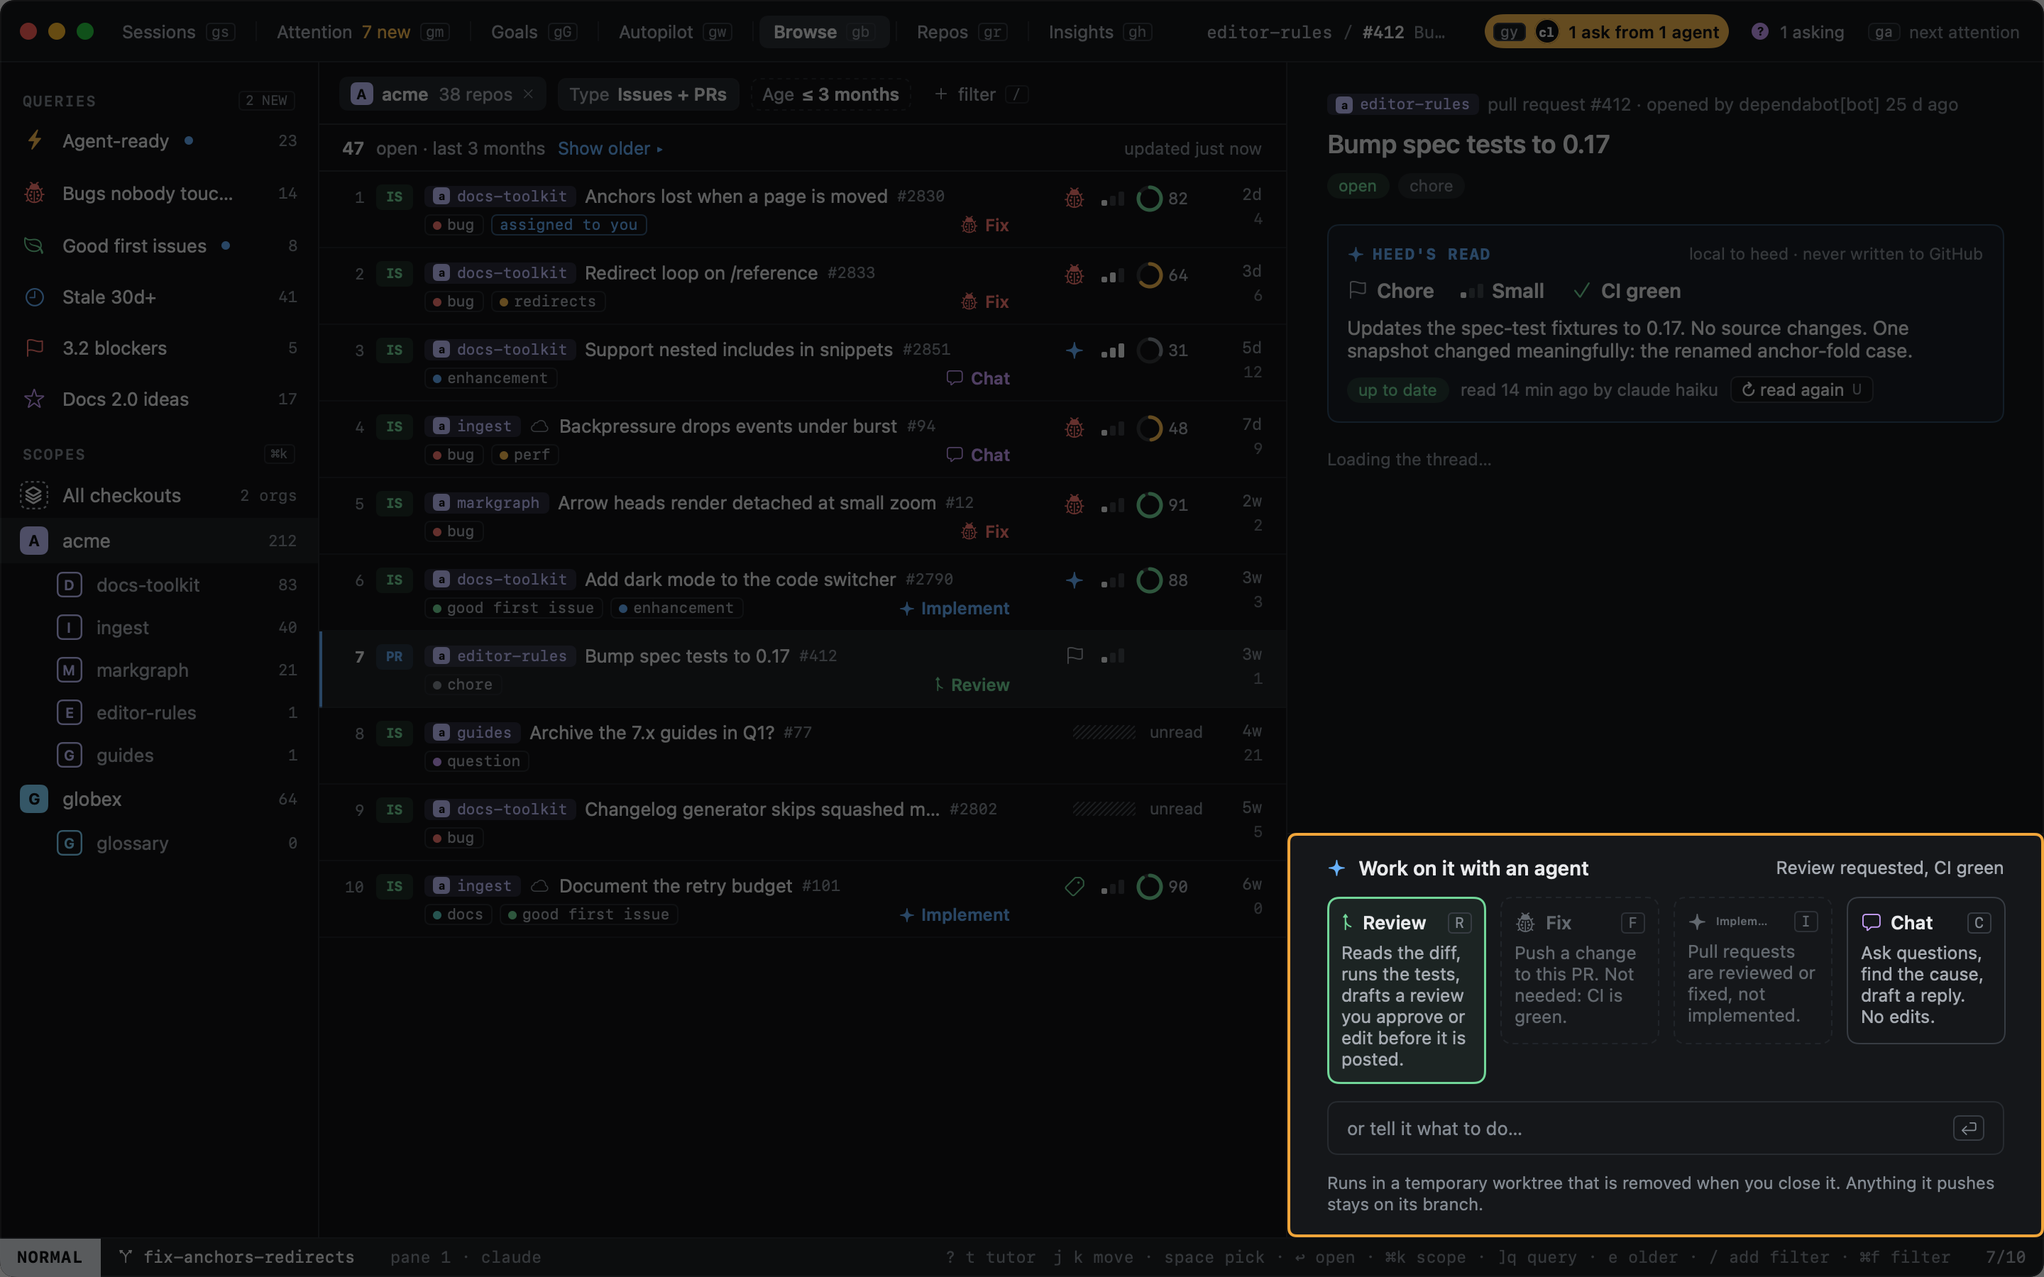
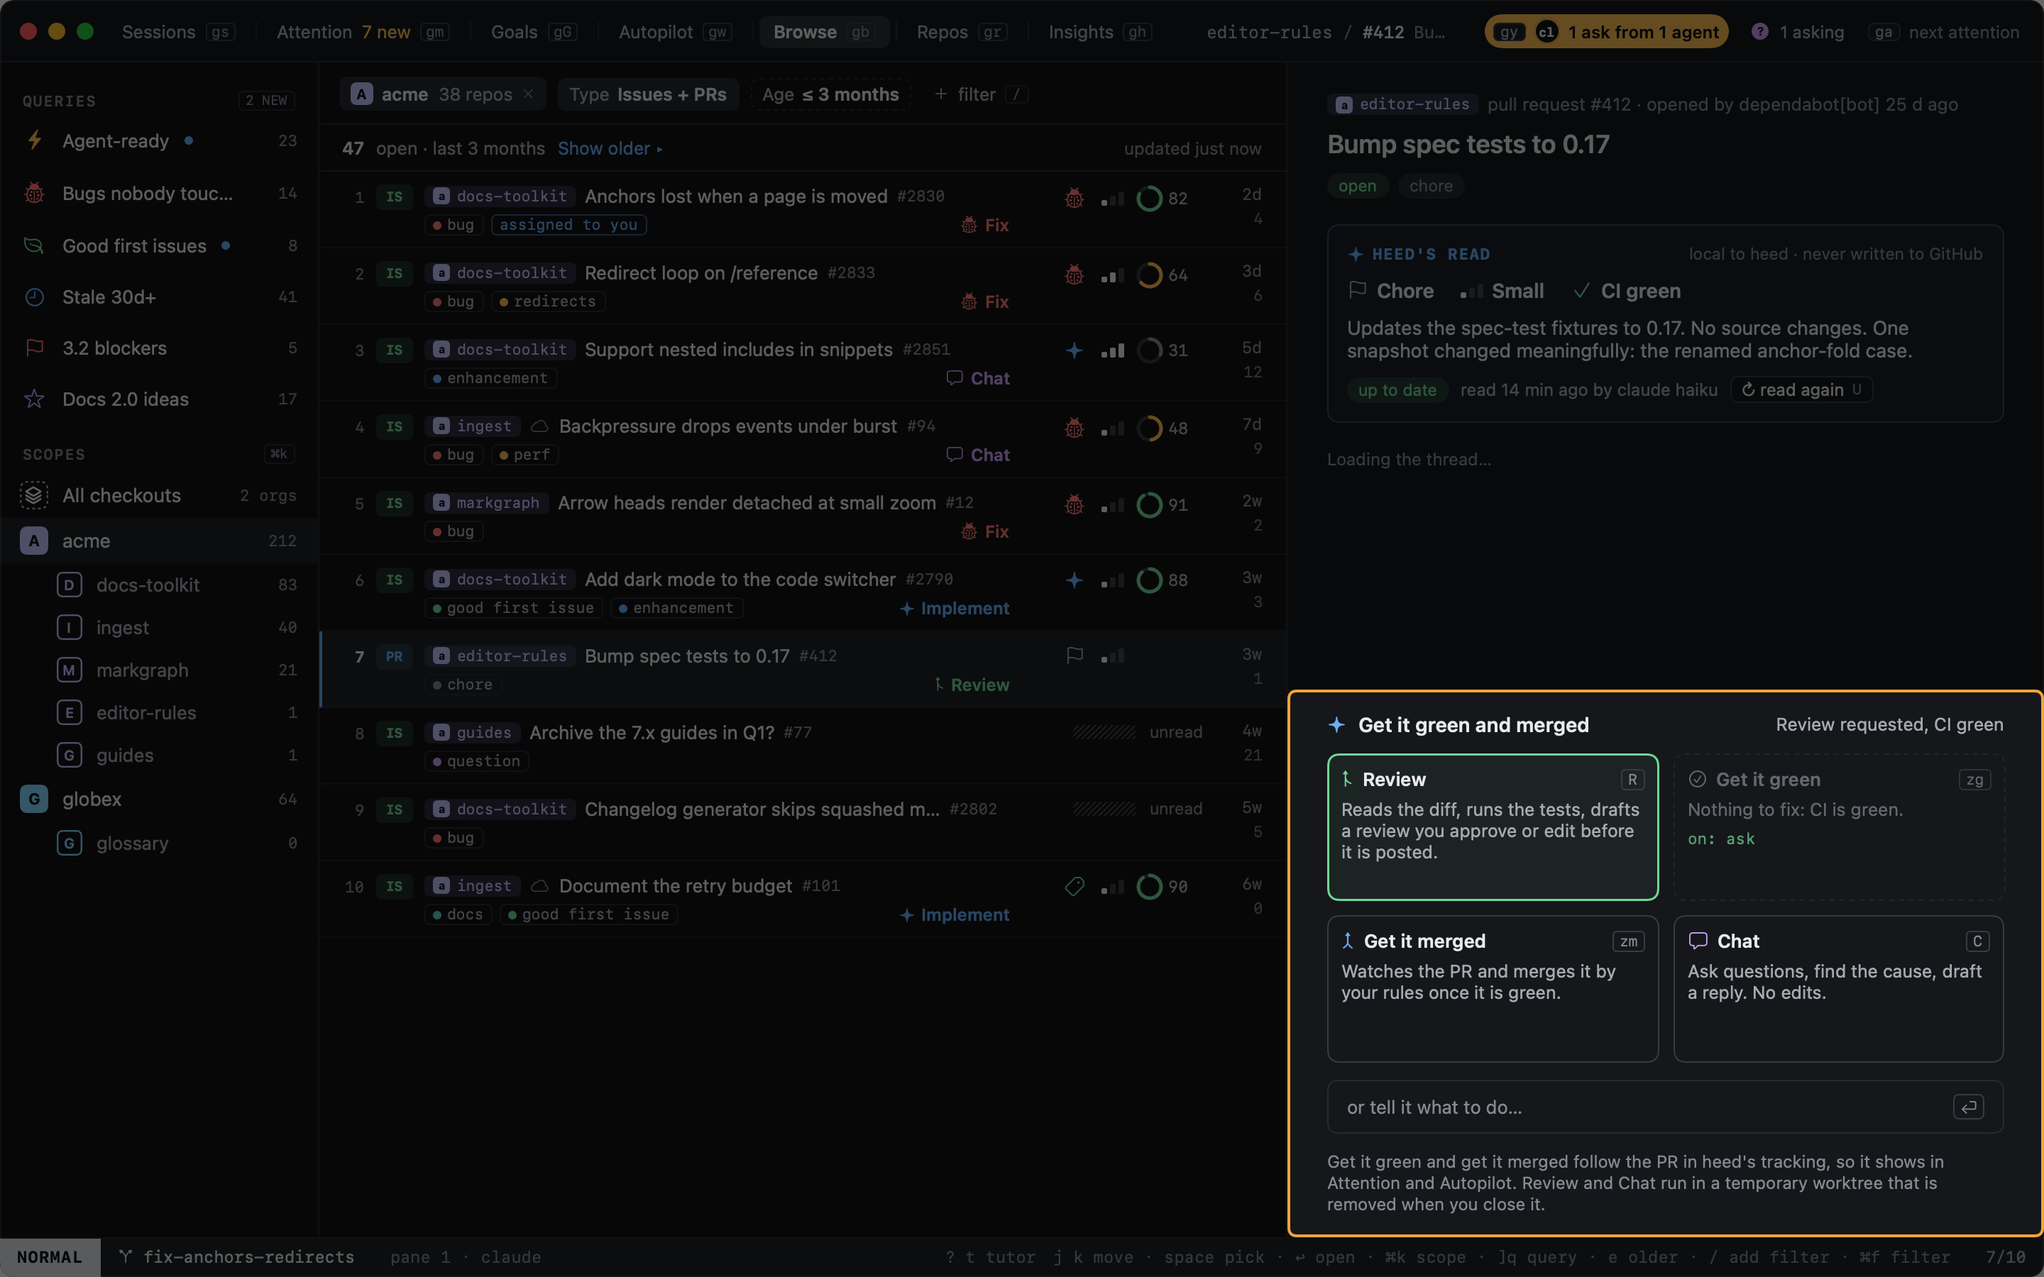
Browse: a pull request gets Get it green and Get it merged, not Fix
On an open PR the buttons are the PR tracking's own modes (pilot.green, pilot.merge), with Review and Chat.
Get it merged is suggested on your PR once checks are green. F on a PR is Get it green. The pilot commands
now act on the PR under the cursor (or the picked ones) in Browse.

Changed region(s): [[0.625, 0.56, 0.9688, 0.9644], [0.875, 0.56, 1.0, 0.5911]]

diff --git a/Sources/HeedApp/Views/BrowseReadViews.swift b/Sources/HeedApp/Views/BrowseReadViews.swift
@@ -326,21 +326,22 @@ struct BrowseWorkSection: View {
         VStack(alignment: .leading, spacing: 12) {
             HStack(spacing: 8) {
                 Image(systemName: "sparkle").font(.system(size: 12)).foregroundStyle(Theme.busy)
-                Text("Work on it with an agent").font(Theme.ui(14, weight: .semibold)).fixedSize()
+                Text(isOpenPull ? "Get it green and merged" : "Work on it with an agent")
+                    .font(Theme.ui(14, weight: .semibold)).fixedSize()
                 Spacer(minLength: 12)
                 Text(verbs.headline).font(Theme.ui(12.5)).foregroundStyle(Theme.fg2).lineLimit(2)
                     .multilineTextAlignment(.trailing)
             }
-            if compact {
-                let ordered = verbs.ordered
+            let cards = workCards(verbs)
+            if compact || isOpenPull {
                 VStack(spacing: 10) {
-                    ForEach([Array(ordered.prefix(2)), Array(ordered.dropFirst(2))], id: \.first?.verb) { pair in
-                        HStack(alignment: .top, spacing: 10) { ForEach(pair, id: \.verb) { advice in card(advice) } }
+                    ForEach([Array(cards.prefix(2)), Array(cards.dropFirst(2))], id: \.first?.id) { pair in
+                        HStack(alignment: .top, spacing: 10) { ForEach(pair, id: \.id) { card in workCard(card) } }
                     }
                 }
             } else {
                 HStack(alignment: .top, spacing: 10) {
-                    ForEach(verbs.ordered, id: \.verb) { advice in card(advice) }
+                    ForEach(cards, id: \.id) { card in workCard(card) }
                 }
             }
             HStack {
@@ -362,7 +363,60 @@ struct BrowseWorkSection: View {
         .shotRegion(.browseWork)
     }
 
+    private var isOpenPull: Bool { item.kind == .pull && item.state == .open }
+
+    /// What one button shows: the four verbs, or on an open pull request Get it green, Get it merged, Review and Chat
+    /// (the PR tracking's modes, not runs of an agent).
+    private struct WorkCard {
+        var id: String
+        var symbol: String
+        var tint: Color
+        var title: String
+        var key: String
+        var summary: String
+        var availability: BrowseAvailability
+        var reason: String
+        var command: String
+        /// How the tracking is set on this pull request now, when it is on.
+        var mode: String?
+    }
+
+    private func workCards(_ verbs: BrowseVerbs) -> [WorkCard] {
+        func verbCard(_ advice: BrowseVerbAdvice) -> WorkCard {
+            WorkCard(
+                id: advice.verb.rawValue, symbol: advice.verb.symbol, tint: advice.verb.tint, title: advice.verb.title,
+                key: advice.verb.key, summary: advice.verb.summary, availability: advice.availability,
+                reason: advice.reason, command: advice.verb.command, mode: nil
+            )
+        }
+        guard isOpenPull, let merge = verbs.merge else { return verbs.ordered.map(verbCard) }
+        let ref = PullRef(repo: item.repo, number: item.number)
+        let tracking = model.pilot(for: ref)
+        let fix = verbs[.fix]
+        let green = WorkCard(
+            id: "green", symbol: "checkmark.circle", tint: Theme.done, title: "Get it green",
+            key: model.keyText(for: "pilot.green"),
+            summary: "An agent fixes failing checks and review feedback in a worktree of its own, and heed shows you before it pushes.",
+            availability: fix.availability, reason: fix.reason, command: "pilot.green",
+            mode: tracking.green == .off ? nil : tracking.green.configName
+        )
+        let merged = WorkCard(
+            id: "merge", symbol: "arrow.triangle.merge", tint: Theme.busy, title: "Get it merged",
+            key: model.keyText(for: "pilot.merge"),
+            summary: "heed watches the PR and merges it by your rules once it is green.",
+            availability: merge.availability, reason: merge.reason, command: "pilot.merge",
+            mode: tracking.merge == .off ? nil : tracking.merge.configName
+        )
+        let rest = [verbCard(verbs[.review]), verbCard(verbs[.chat])]
+        let all = [green, merged] + rest
+        return all.filter { $0.availability == .recommended } + all.filter { $0.availability != .recommended }
+    }
+
     private var footer: String {
+        if isOpenPull {
+            return "Get it green and get it merged follow the PR in heed's tracking, so it shows in Attention and Autopilot. "
+                + "Review and Chat run in a temporary worktree that is removed when you close it."
+        }
         var text = "Runs in a temporary worktree that is removed when you close it. Anything it pushes stays on its branch."
         if !model.browseIsCloned(item.repo) {
             text = "\(item.repo.slug) is not on this Mac: a clone comes first. " + text
@@ -370,38 +424,39 @@ struct BrowseWorkSection: View {
         return text
     }
 
-    private func card(_ advice: BrowseVerbAdvice) -> some View {
-        let verb = advice.verb
-        let off = advice.availability == .unavailable
-        let recommended = advice.availability == .recommended
+    private func workCard(_ card: WorkCard) -> some View {
+        let off = card.availability == .unavailable
+        let recommended = card.availability == .recommended
         return VStack(alignment: .leading, spacing: 6) {
             HStack(spacing: 6) {
-                Image(systemName: verb.symbol).font(.system(size: 12))
-                    .foregroundStyle(off ? Theme.fg3 : verb.tint)
-                Text(verb.title).font(Theme.ui(13, weight: .semibold)).lineLimit(1).minimumScaleFactor(0.6)
+                Image(systemName: card.symbol).font(.system(size: 12))
+                    .foregroundStyle(off ? Theme.fg3 : card.tint)
+                Text(card.title).font(Theme.ui(13, weight: .semibold)).lineLimit(1).minimumScaleFactor(0.6)
                 Spacer(minLength: 2)
-                Text(verb.key).font(Theme.mono(10.5)).foregroundStyle(Theme.fg3)
+                Text(card.key).font(Theme.mono(10.5)).foregroundStyle(Theme.fg3)
                     .padding(.horizontal, 5).padding(.vertical, 1)
                     .overlay(RoundedRectangle(cornerRadius: 3).strokeBorder(Theme.keyCapBorder))
             }
             .foregroundStyle(off ? Theme.fg3 : Theme.fg)
             // What it does, unless it is on offer with a caveat, or does not fit: then why.
-            Text(off || (advice.availability == .available && advice.reason != verb.summary)
-                ? advice.reason : verb.summary)
+            Text(off || (card.availability == .available && card.reason != card.summary) ? card.reason : card.summary)
                 .font(Theme.ui(12.5)).foregroundStyle(off ? Theme.fg3 : Theme.fg2)
                 .fixedSize(horizontal: false, vertical: true)
+            if let mode = card.mode {
+                Text("on: \(mode)").font(Theme.mono(11)).foregroundStyle(card.tint)
+            }
         }
         .padding(10)
         .frame(maxWidth: .infinity, minHeight: compact ? 84 : 104, alignment: .topLeading)
-        .background(RoundedRectangle(cornerRadius: 8).fill(recommended ? verb.tint.opacity(0.07) : .clear))
+        .background(RoundedRectangle(cornerRadius: 8).fill(recommended ? card.tint.opacity(0.07) : .clear))
         .overlay(
             RoundedRectangle(cornerRadius: 8).strokeBorder(
-                recommended ? verb.tint : off ? Theme.line : Theme.keyCapBorder,
+                recommended ? card.tint : off ? Theme.line : Theme.keyCapBorder,
                 style: StrokeStyle(lineWidth: recommended ? 1.5 : 1, dash: off ? [4, 3] : [])
             )
         )
         .opacity(off ? 0.7 : 1)
         .contentShape(Rectangle())
-        .clickRuns(CommandInvocation(name: verb.command))
+        .clickRuns(CommandInvocation(name: card.command))
     }
 }

diff --git a/Sources/HeedCore/Browse/BrowseVerbs.swift b/Sources/HeedCore/Browse/BrowseVerbs.swift
@@ -45,6 +45,17 @@ public enum BrowseAvailability: String, Hashable, Sendable {
 }
 
 public struct BrowseVerbAdvice: Hashable, Sendable {
+    /// Advice for the pull request's own tracking action (Get it merged), which is no agent run.
+    public struct Pull: Hashable, Sendable {
+        public var availability: BrowseAvailability
+        public var reason: String
+
+        public init(_ availability: BrowseAvailability, _ reason: String) {
+            self.availability = availability
+            self.reason = reason
+        }
+    }
+
     public var verb: BrowseVerb
     public var availability: BrowseAvailability
     /// One line: why it is suggested, or why it is on offer or not.
@@ -72,6 +83,11 @@ public struct BrowseVerbs: Hashable, Sendable {
     /// Below this agent-readiness heed would be guessing, so Chat leads.
     public static let clearLine = 50
 
+    /// Get it merged on an open pull request (`pilot.merge`, the PR tracking's own mode): the advice beside the four
+    /// verbs. Nil for an issue and for a pull request that is closed or merged. On a pull request Fix is shown as Get
+    /// it green (`pilot.green`) and Implement is left out.
+    public var merge: BrowseVerbAdvice.Pull?
+
     /// All four, in the order Fix, Implement, Chat, Review.
     public var advice: [BrowseVerbAdvice]
 
@@ -79,13 +95,18 @@ public struct BrowseVerbs: Hashable, Sendable {
 
     public var recommended: BrowseVerbAdvice? { advice.first { $0.availability == .recommended } }
 
+    /// Whether get it merged is the suggestion (no verb is then).
+    public var recommendsMerge: Bool { merge?.availability == .recommended }
+
     /// The buttons' order: the suggestion first, the rest as they are.
     public var ordered: [BrowseVerbAdvice] {
         advice.filter { $0.availability == .recommended } + advice.filter { $0.availability != .recommended }
     }
 
     /// The line over the buttons: why the suggestion, or that there is none.
-    public var headline: String { recommended?.reason ?? "No suggestion yet" }
+    public var headline: String {
+        recommended?.reason ?? (recommendsMerge ? merge?.reason : nil) ?? "No suggestion yet"
+    }
 
     public static func recommend(item: BrowseItem, read: BrowseRead?, viewer: String?) -> BrowseVerbs {
         func suggest(
@@ -172,6 +193,15 @@ public struct BrowseVerbs: Hashable, Sendable {
         }
     }
 
+    /// Get it merged: suggested on your own pull request once its checks are green and nobody asks for changes; on
+    /// offer on any other open one (it waits for green first); not on a draft.
+    private static func mergeAdvice(_ item: BrowseItem, mine: Bool, failing: Bool, changes: Bool) -> BrowseVerbAdvice.Pull {
+        if item.isDraft { return .init(.unavailable, "Still a draft: mark it ready first.") }
+        if mine, item.checks == .passing, !changes { return .init(.recommended, "Your PR is green: get it merged") }
+        if failing || changes { return .init(.available, "Gets it green first, then merges it.") }
+        return .init(.available, "Watches the PR and merges it by your rules once it is green.")
+    }
+
     private static func noPull() -> String { "No pull request linked to this issue yet." }
 
     private static func pull(_ item: BrowseItem, mine: Bool, viewer: String?, ask: String) -> BrowseVerbs {
@@ -197,9 +227,9 @@ public struct BrowseVerbs: Hashable, Sendable {
         } else if failing || changes {
             fix = .init(.fix, .available, failing ? "CI is failing on this PR." : "Changes were requested on this PR.")
         } else if item.checks == .passing {
-            fix = .init(.fix, .unavailable, "Push a change to this PR. Not needed: CI is green.")
+            fix = .init(.fix, .unavailable, "Nothing to fix: CI is green.")
         } else {
-            fix = .init(.fix, .available, "Push a change to this PR.")
+            fix = .init(.fix, .available, "Watches the PR and fixes what fails.")
         }
 
         var review: BrowseVerbAdvice = if mine {
@@ -216,6 +246,8 @@ public struct BrowseVerbs: Hashable, Sendable {
         if item.isDraft, review.availability == .recommended {
             review = .init(.review, .available, "Review requested, but it is still a draft")
         }
-        return BrowseVerbs(advice: [fix, implement, .init(.chat, .available, ask), review])
+        var answer = BrowseVerbs(advice: [fix, implement, .init(.chat, .available, ask), review])
+        answer.merge = mergeAdvice(item, mine: mine, failing: failing, changes: changes)
+        return answer
     }
 }

diff --git a/Tests/HeedCoreTests/BrowseVerbsTests.swift b/Tests/HeedCoreTests/BrowseVerbsTests.swift
@@ -159,7 +159,7 @@ struct BrowseVerbsTests {
         #expect(answer.recommended?.verb == .review)
         #expect(answer[.review].reason == "Review requested, CI green")
         #expect(answer[.fix].availability == .unavailable)
-        #expect(answer[.fix].reason == "Push a change to this PR. Not needed: CI is green.")
+        #expect(answer[.fix].reason == "Nothing to fix: CI is green.")
         #expect(answer[.chat].availability == .available)
         #expect(verbs(pull(checks: .failing, requested: ["you"]), nil)[.review]
             .reason == "Review requested, CI failing")
@@ -187,5 +187,35 @@ struct BrowseVerbsTests {
     @Test func withoutAViewerNobodyOwnsAPullRequest() {
         let item = pull(author: "you", checks: .failing)
         #expect(verbs(item, nil, viewer: nil).recommended == nil)
+    }
+
+    @Test func yourGreenPullRequestIsGetItMerged() {
+        let answer = verbs(pull(author: "you", checks: .passing), nil)
+        #expect(answer.recommended == nil)
+        #expect(answer.recommendsMerge)
+        #expect(answer.merge?.reason == "Your PR is green: get it merged")
+        #expect(answer.headline == "Your PR is green: get it merged")
+    }
+
+    @Test func getItMergedWaitsForGreenWhenChecksFailOrChangesAreRequested() {
+        let failing = verbs(pull(author: "you", checks: .failing), nil)
+        #expect(failing.merge == .init(.available, "Gets it green first, then merges it."))
+        #expect(failing.recommended?.verb == .fix)
+        #expect(!failing.recommendsMerge)
+        let asked = verbs(pull(author: "you", checks: .passing, review: .changesRequested), nil)
+        #expect(asked.merge?.availability == .available)
+    }
+
+    @Test func getItMergedIsOnOfferOnAnotherPersonsPullRequestAndNeverSuggestedThere() {
+        let answer = verbs(pull(author: "bot", checks: .passing, requested: ["you"]), nil)
+        #expect(answer.merge?.availability == .available)
+        #expect(answer.recommended?.verb == .review)
+    }
+
+    @Test func aDraftCannotBeMergedAndIssuesAndClosedPullRequestsHaveNoMerge() {
+        #expect(verbs(pull(author: "you", draft: true), nil).merge?.availability == .unavailable)
+        #expect(verbs(issue(), nil).merge == nil)
+        #expect(verbs(pull(state: .merged), nil).merge == nil)
+        #expect(verbs(pull(state: .closed), nil).merge == nil)
     }
 }

diff --git a/Sources/HeedApp/Model/AppModel.swift b/Sources/HeedApp/Model/AppModel.swift
@@ -6138,6 +6138,11 @@ final class AppModel {
         case .prs:
             let byID = Dictionary(pullRows.map { ($0.id, $0.ref) }) { first, _ in first }
             return actionIDs(.prs).compactMap { byID[$0] }
+        case .browse:
+            // The open pull requests among the picked rows, or the one under the cursor.
+            let ids = Set(actionIDs(.browse))
+            return browse.rows.filter { ids.contains($0.id) && $0.kind == .pull && $0.state == .open }
+                .map { PullRef(repo: $0.repo, number: $0.number) }
         case .sessions:
             return (currentSession?.trackedPRs ?? []).filter(isOpen)
         case .attention:

diff --git a/Sources/HeedApp/Model/AppModel+BrowseRead.swift b/Sources/HeedApp/Model/AppModel+BrowseRead.swift
@@ -181,6 +181,8 @@ extension AppModel {
         }
         let advice = browseVerbs(item)[verb]
         guard advice.availability != .unavailable else { return say("\(verb.title): \(advice.reason)") }
+        // On a pull request Fix is Get it green: the PR tracking's own mode, not a run of its own.
+        if verb == .fix, item.kind == .pull { return perform(CommandInvocation(name: "pilot.green")) }
         startBrowseRun(verb, item: item)
     }
 

diff --git a/docs/github/browse.md b/docs/github/browse.md
@@ -203,7 +203,7 @@ A button that does not fit is dashed and says why.
 
 | Key | Does |
 |---|---|
-| `F` Fix | Reproduces the bug, fixes it, tests it and opens a PR. Comments on the issue. On a PR, addresses its feedback |
+| `F` Fix | Reproduces the bug, fixes it, tests it and opens a PR. Comments on the issue. On a PR it is Get it green (below) |
 | `I` Implement | Builds what the issue asks, with tests, and opens a PR that closes it |
 | `C` Chat | Asks questions, finds the cause, drafts a reply. Edits nothing |
 | `R` Review | Reads the diff, runs the tests and drafts a review for you |
@@ -223,6 +223,14 @@ A button that does not fit is dashed and says why.
 
 Implement never fits a PR, and Review is off on your own PR. An agent action works on one item: with several picked,
 `F` `I` `C` `R` say so.
+
+**On a pull request** the buttons are the PR tracking's own: **Get it green** (`zg`, and `F`), **Get it merged** (`zm`),
+Review and Chat. Get it green and Get it merged are not runs in the reader. They turn on the modes
+[get it green and get it merged](../autopilot/green-and-merged.md) already has (each press cycles off, ask, auto; the card shows the mode that is on), so the PR
+also shows in Attention and Autopilot, and heed asks before it pushes. heed suggests Get it green on your PR with
+failing checks or requested changes, and Get it merged on your PR once checks are green and nobody asks for changes.
+Get it merged is on offer on someone else's PR and waits for green first; it is off on a draft. A PR that is closed
+or merged gets Chat only.
 
 ![Fix running: its feed, the temporary worktree and the way to keep or close it](../images/shots/github/browse-run.png)
 
